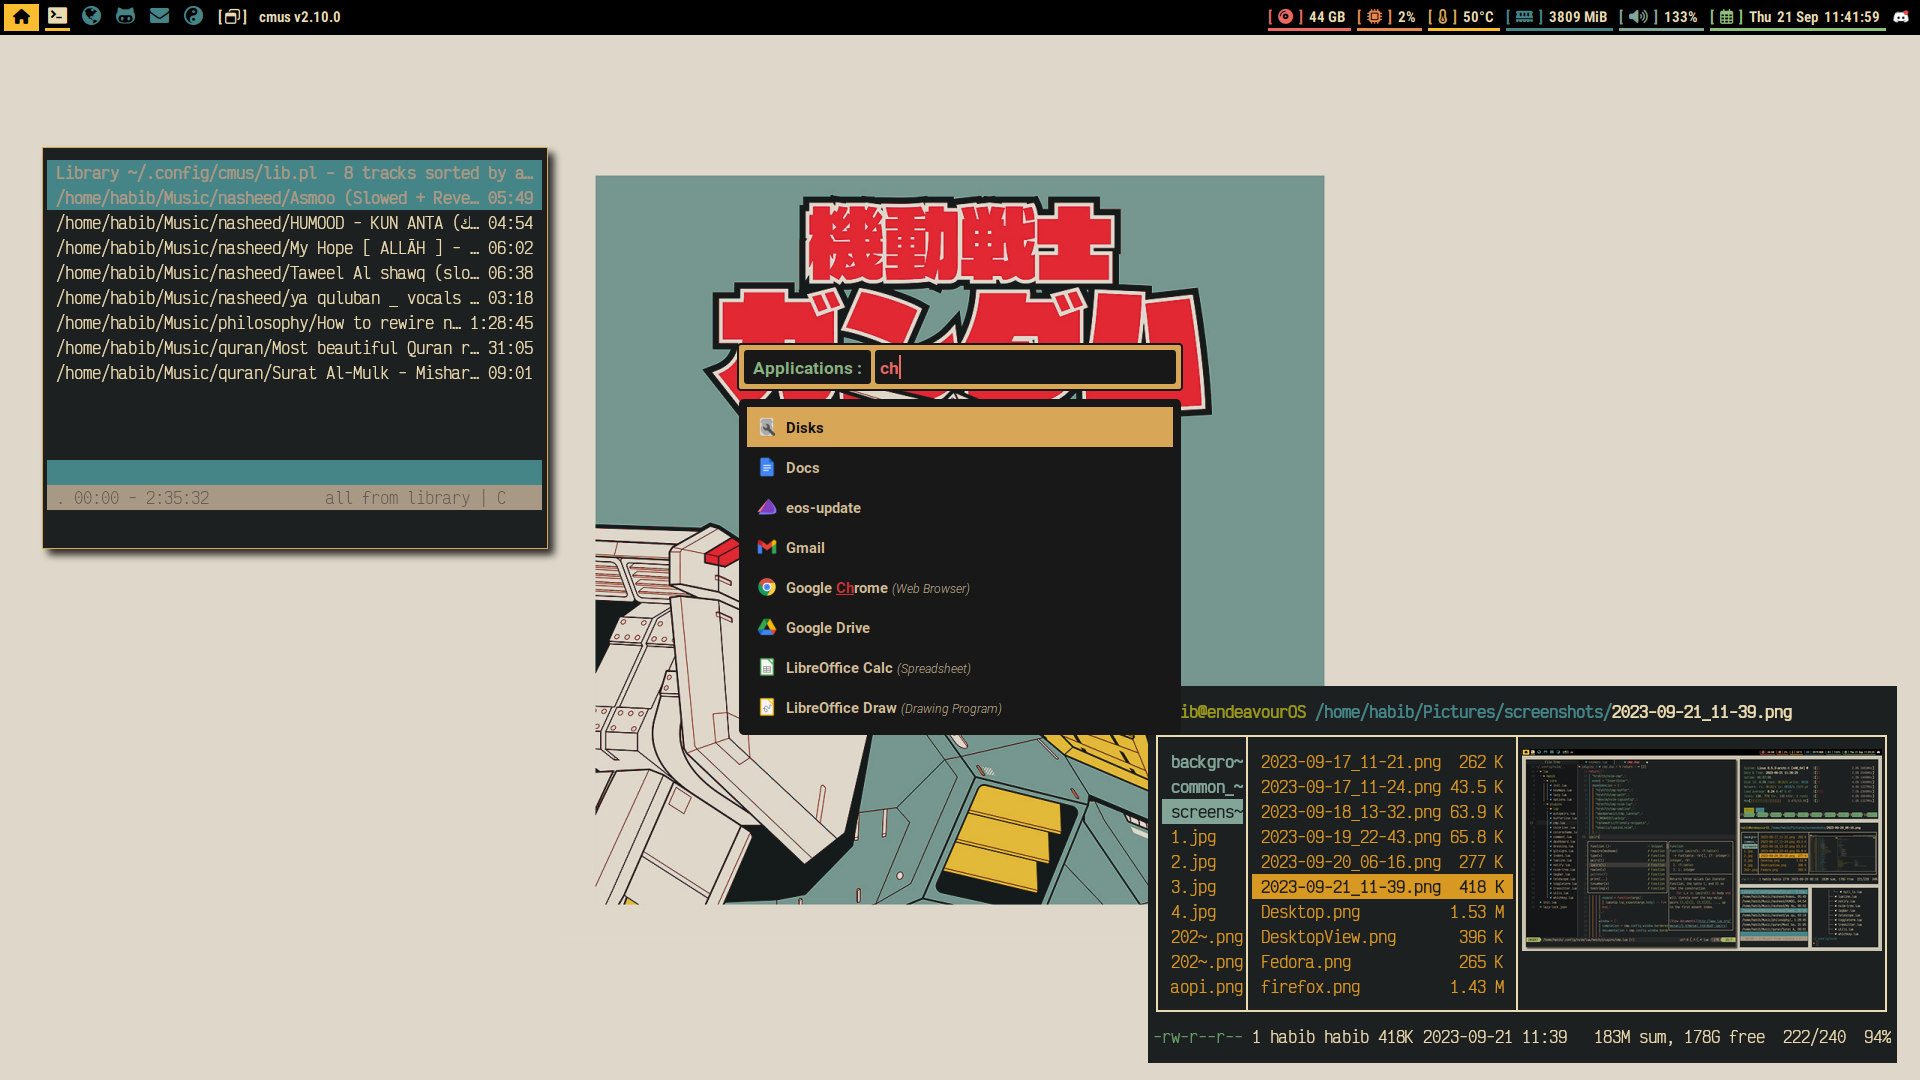
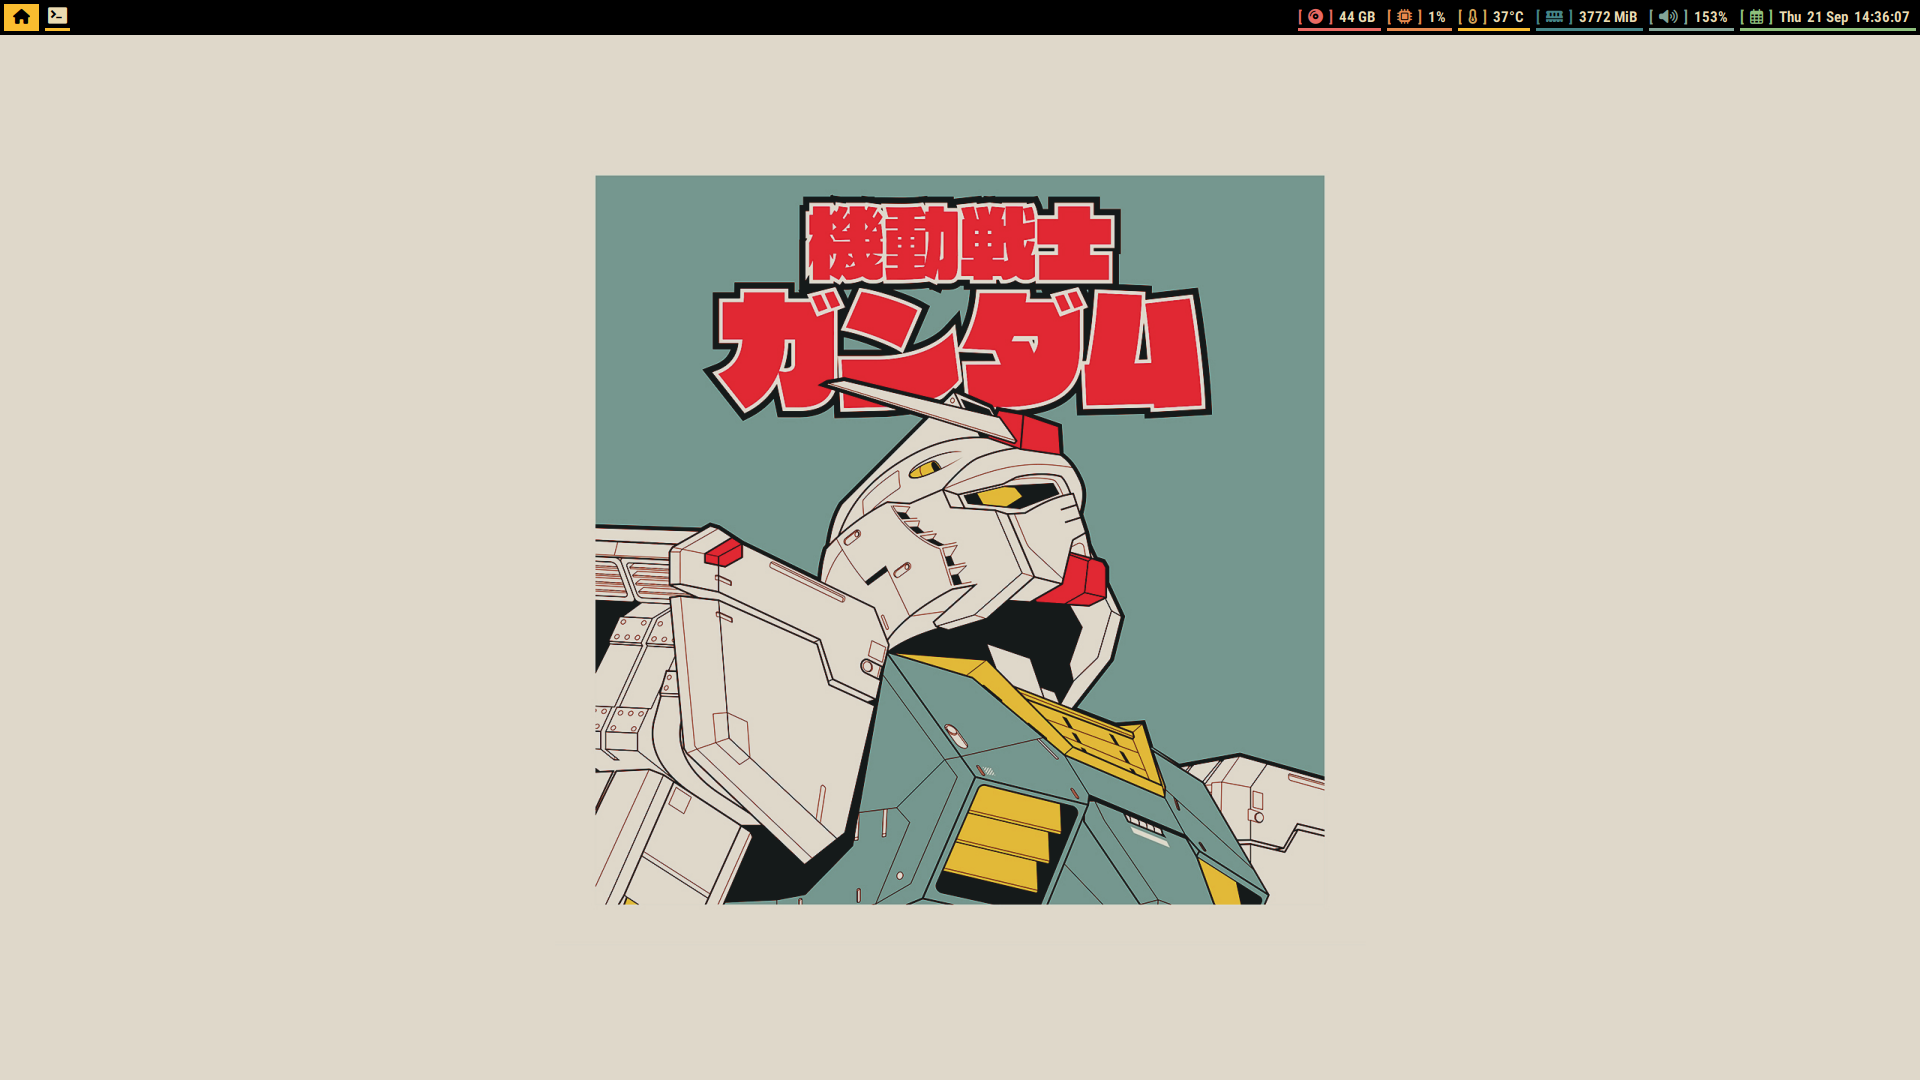
polybar and i3 ss changed

diff --git a/README.md b/README.md
@@ -71,12 +71,20 @@
 
 ---
 
-### i3-wm and polybar
+### i3-wm
 
 ![i3_poly](https://github.com/bibjaw99/workstation/blob/master/screenshots/i3.png?raw=true)
 
+### Polybar
+
 ![poly](https://github.com/bibjaw99/workstation/blob/master/screenshots/polybar.png?raw=true)
-### picom-pijulius
+
+### App launcher: Rofi
+
+![rofi](https://github.com/bibjaw99/workstation/blob/master/screenshots/rofi.png?raw=true)
+
+### Animations: picom-pijulius
+
 ![ezgif com-video-to-gif](https://github.com/bibjaw99/workstation/assets/134938208/a2be6ec7-0188-434c-b15a-0548c21f8791)
 
 ## Keybindings For i3
